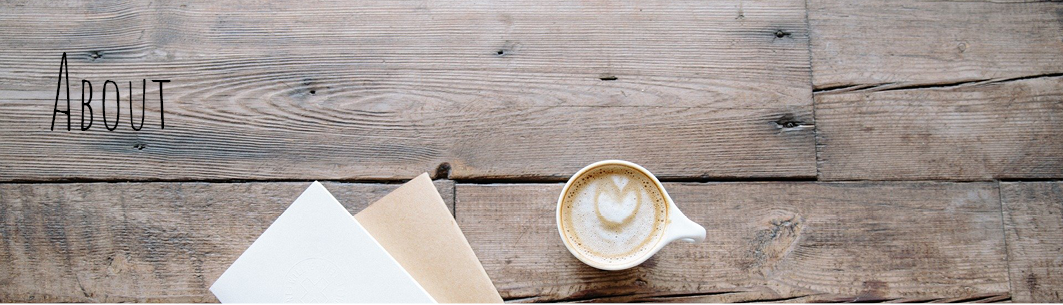
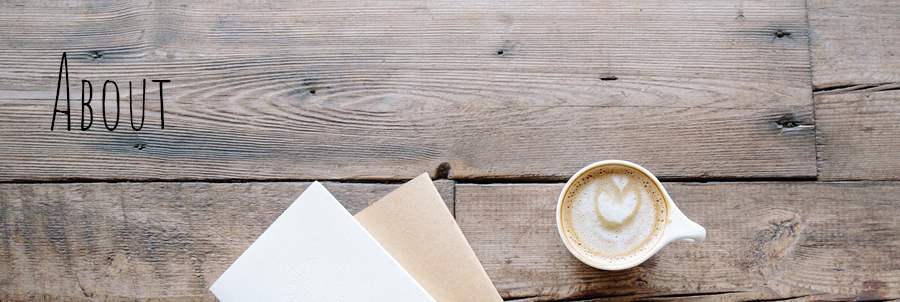
Crop small images and use bulma class to switch from desktop to mobile

diff --git a/src/components/About.vue b/src/components/About.vue
@@ -1,7 +1,12 @@
 <template>
   <div id="about">
     <div class="hero">
-      <img class="hero-img" />
+      <div class="is-hidden-touch">
+        <img class="hero-img" src="../assets/img/about.png" />
+      </div>
+      <div class="is-hidden-desktop">
+        <img class="hero-img" src="../assets/img/about_small.png" />
+      </div>
     </div>
 
     <div class="content">
@@ -11,7 +16,8 @@
         <img class="portrait is-rounded" src="../assets/img/portrait.jpg" />
       </figure>
 
-      <i>"Simplicity is the ultimate form of sophistication"</i>
+      <i>"Simplicity is the ultimate form of sophistication."</i>
+
 
       <br />
       <br />
@@ -32,12 +38,6 @@
 }
 
 .hero-img {
-  content: url("../assets/img/about.png");
-}
-
-@media screen and (max-width: 1024px) {
-  .hero-img {
-    content: url("../assets/img/about_small.png");
-  }
+  width: 100%;
 }
 </style>

diff --git a/src/components/Contact.vue b/src/components/Contact.vue
@@ -1,7 +1,12 @@
 <template>
   <div id="contact">
     <div class="hero">
-      <img class="hero-img" />
+      <div class="is-hidden-touch">
+        <img class="hero-img" src="../assets/img/contact.png" />
+      </div>
+      <div class="is-hidden-desktop">
+        <img class="hero-img" src="../assets/img/contact_small.png" />
+      </div>
     </div>
 
     <div class="content has-text-left-touch has-text-centered-desktop">
@@ -340,12 +345,6 @@ export default {
 }
 
 .hero-img {
-  content: url("../assets/img/contact.png");
-}
-
-@media screen and (max-width: 1024px) {
-  .hero-img {
-    content: url("../assets/img/contact_small.png");
-  }
+  width: 100%;
 }
 </style>

diff --git a/src/components/Package.vue b/src/components/Package.vue
@@ -1,7 +1,12 @@
 <template>
   <div id="package">
     <div class="hero">
-      <img class="hero-img" />
+      <div class="is-hidden-touch">
+        <img class="hero-img" src="../assets/img/package.png" />
+      </div>
+      <div class="is-hidden-desktop">
+        <img class="hero-img" src="../assets/img/package_small.png" />
+      </div>
     </div>
 
     <div class="content has-text-left-touch has-text-centered-desktop">
@@ -116,12 +121,6 @@ li span {
 }
 
 .hero-img {
-  content: url("../assets/img/package.png");
-}
-
-@media screen and (max-width: 1024px) {
-  .hero-img {
-    content: url("../assets/img/package_small.png");
-  }
+  width: 100%;
 }
 </style>

diff --git a/src/components/Hero.vue b/src/components/Hero.vue
@@ -1,18 +1,20 @@
 <template>
-  <div class="hero">
-    <img class="hero-img" />
+  <div id="hero">
+    <div class="is-hidden-touch">
+      <img class="hero-img" src="../assets/img/hero.png" />
+    </div>
+    <div class="is-hidden-desktop">
+      <img class="hero-img" src="../assets/img/hero_small.png" />
+    </div>
   </div>
 </template>
 
 <style scoped>
 .hero-img {
-  padding-top: 60px;
-  content: url("../assets/img/hero.png");
+  width: 100%
 }
 
-@media screen and (max-width: 1024px) {
-  .hero-img {
-    content: url("../assets/img/hero_small.png");
-  }
+#hero {
+  padding-top: 3.5rem;
 }
 </style>
